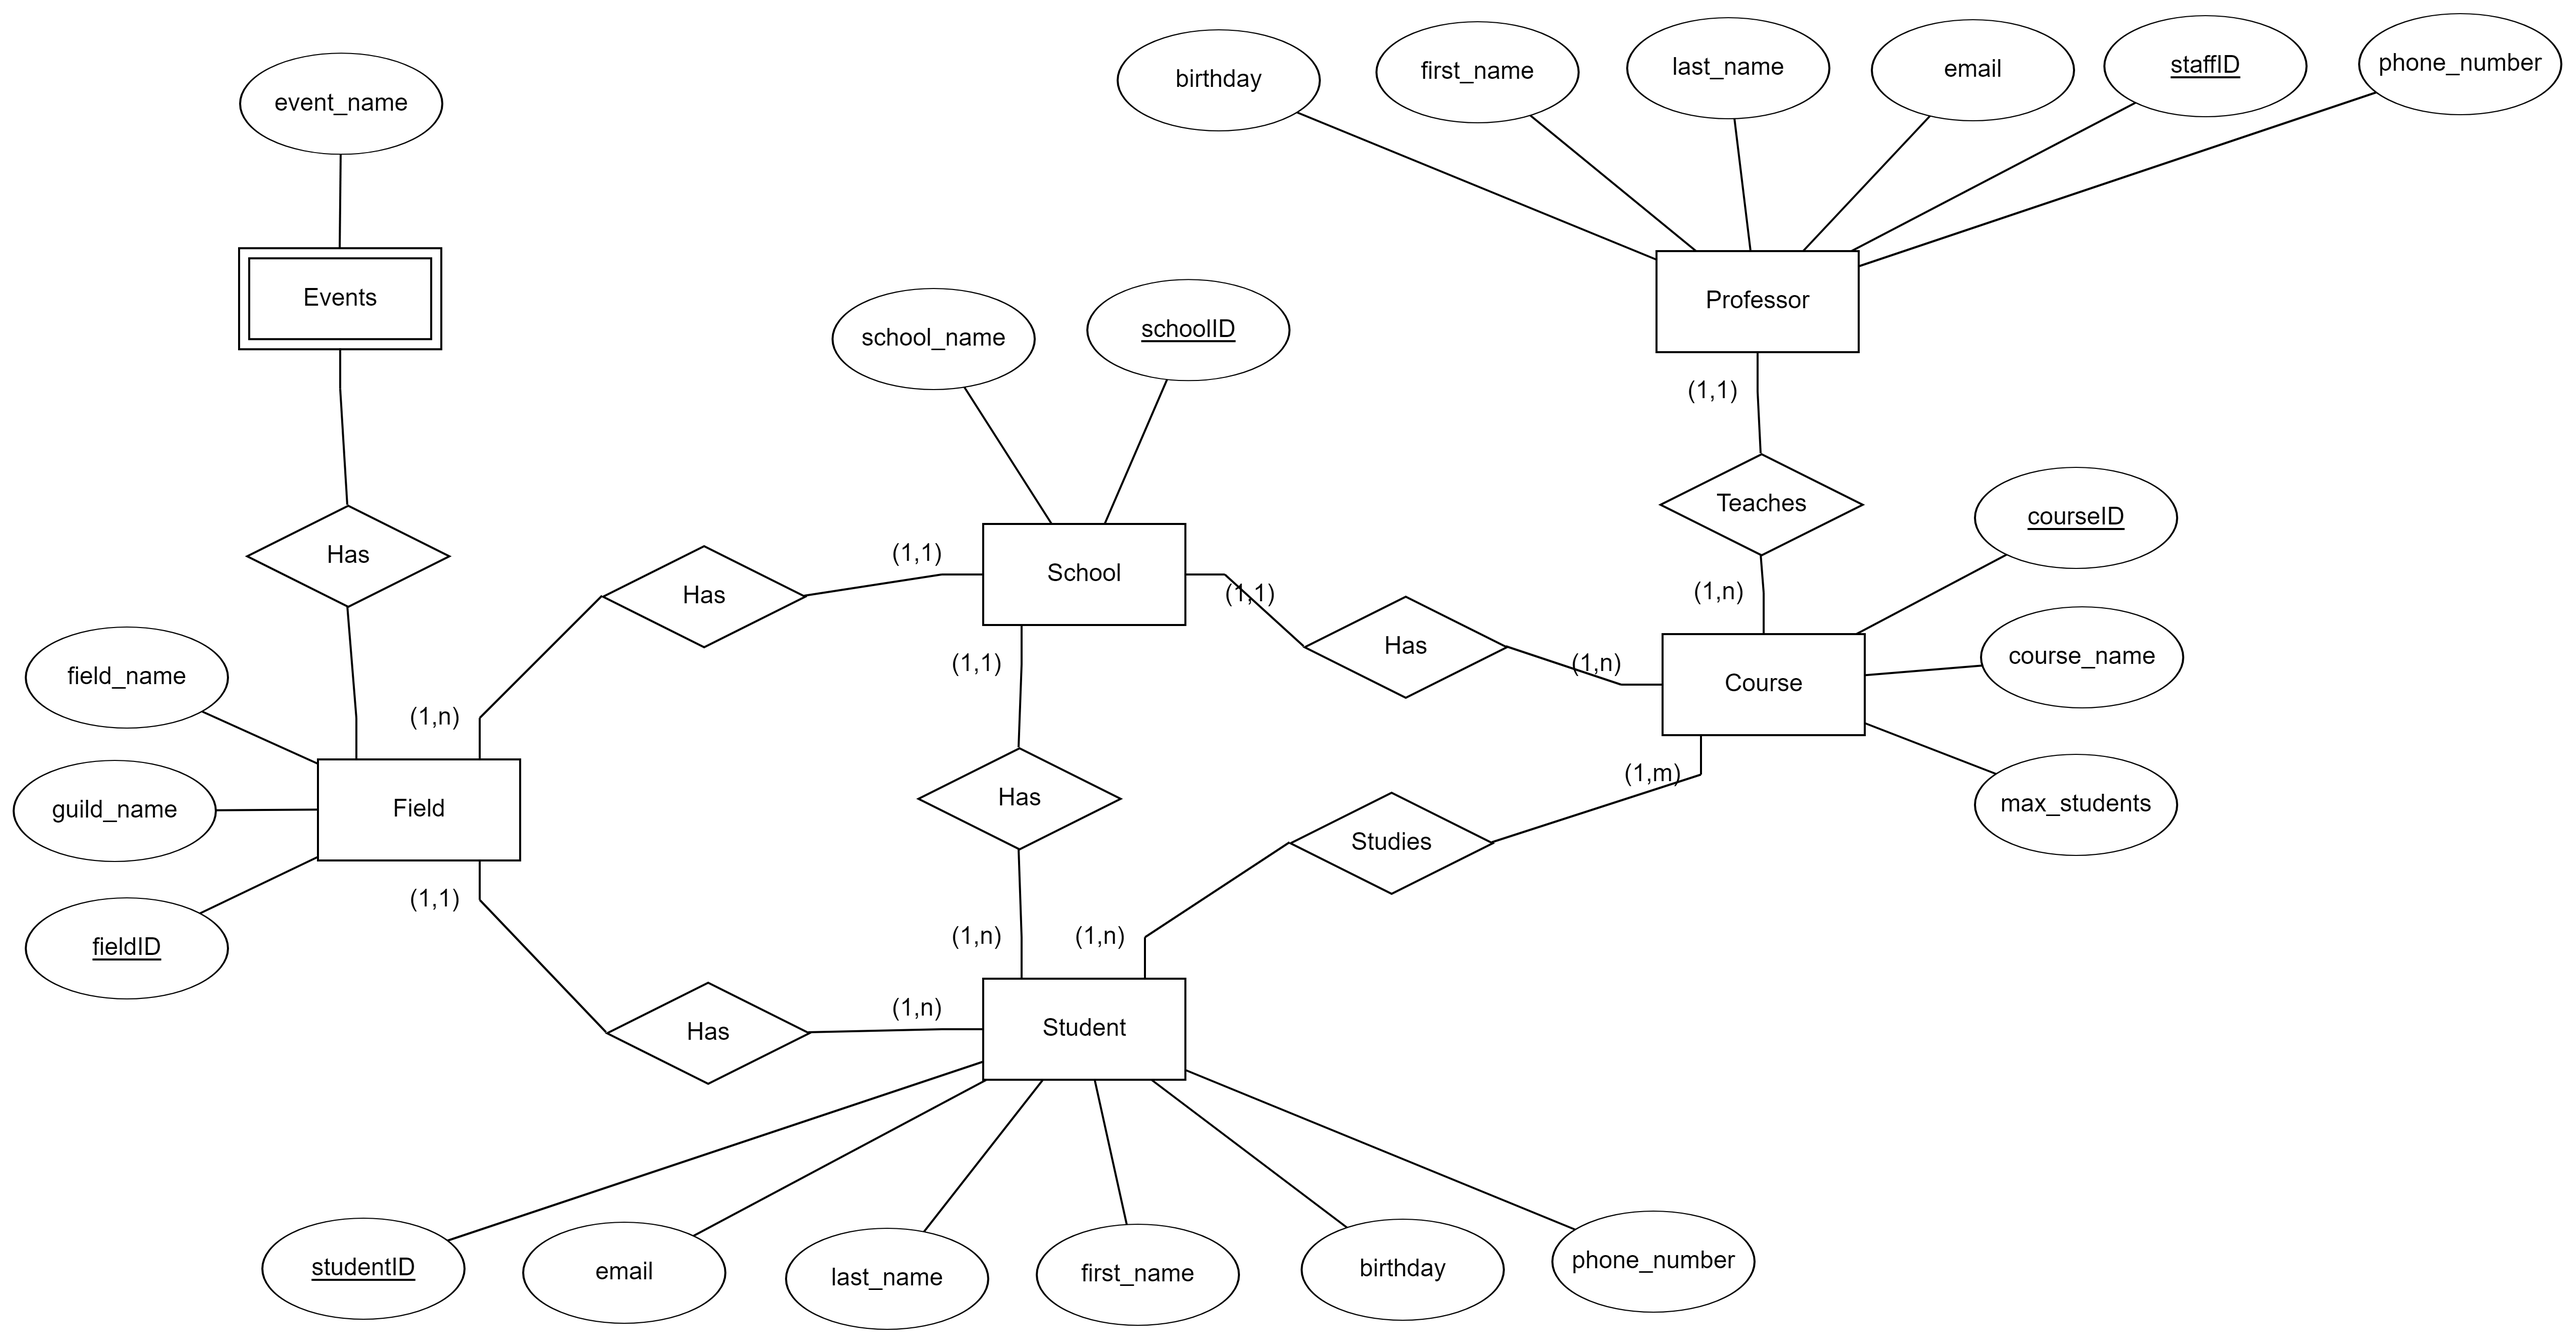
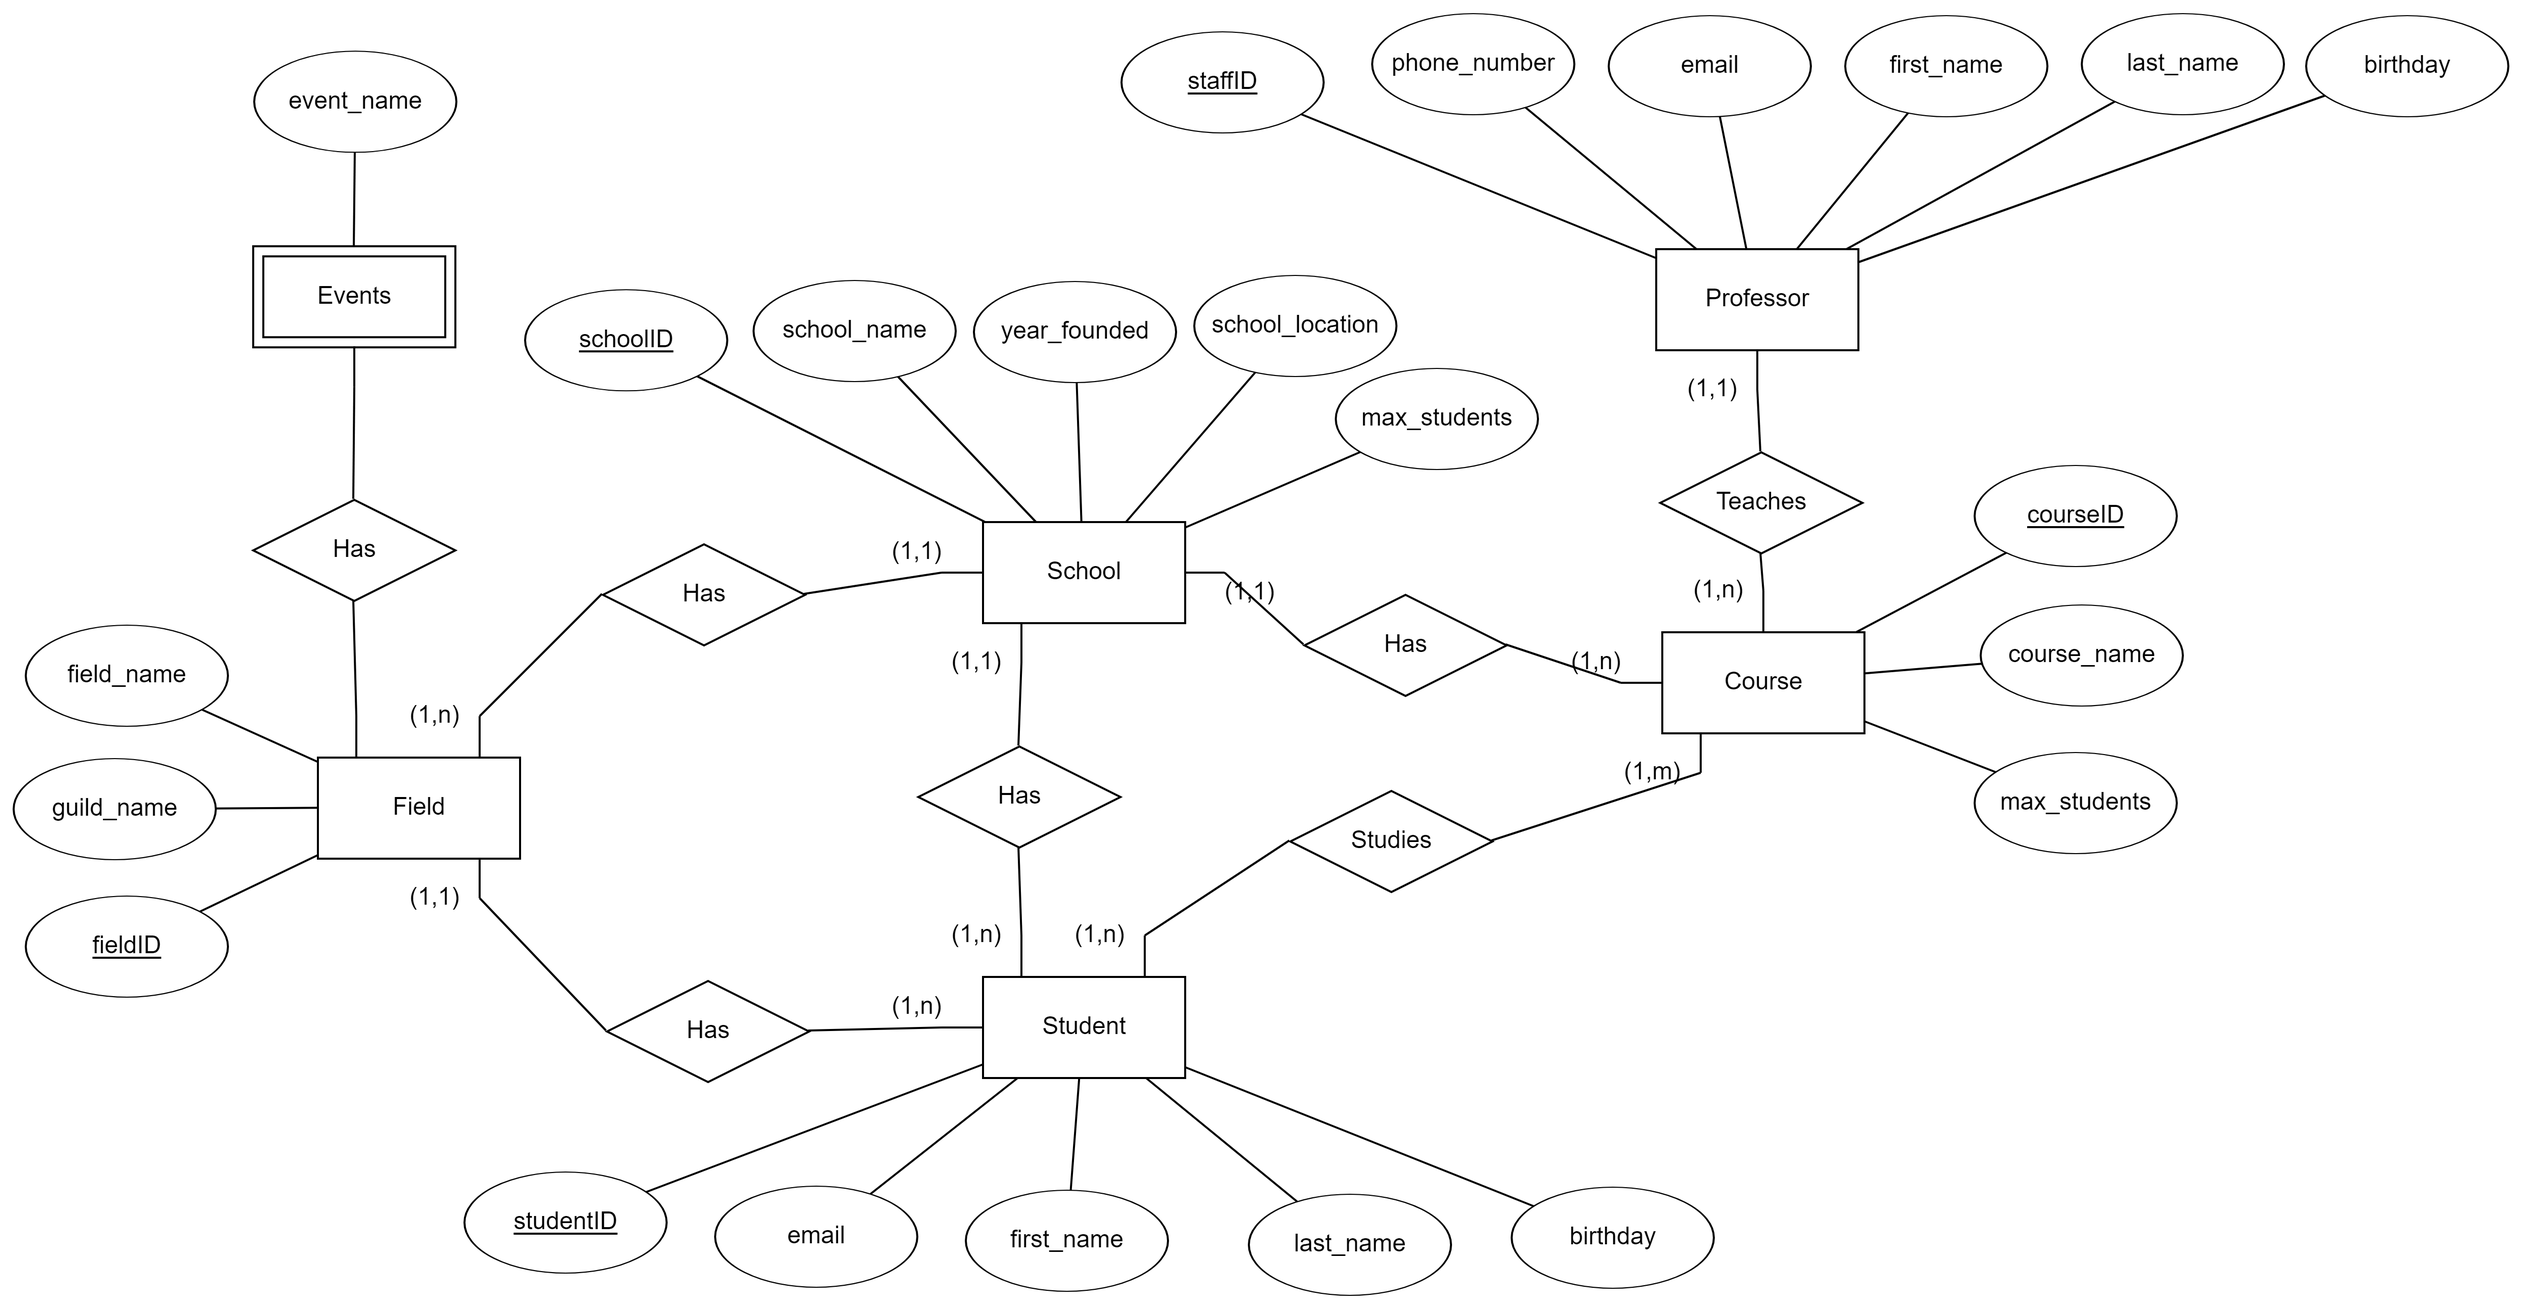
Updated ER diagram and modified python and added data to tables in init.sql

diff --git a/main.py b/main.py
@@ -1,35 +1,38 @@
 import sqlite3
 db = sqlite3.connect('students.db')
 cur = db.cursor()
+
+
 def initializeDB():
     try:
         f = open("sqlcommands.sql", "r")
         commandstring = ""
         for line in f.readlines():
-            commandstring+=line
+            commandstring += line
         cur.executescript(commandstring)
         f.close()
     except sqlite3.OperationalError:
         print("Database exists, skip initialization")
     except:
-        print("No SQL file to be used for initialization") 
-    
+        print("No SQL file to be used for initialization")
+
     try:
         f = open("init.sql", "r")
         initcommandstring = ""
         for line in f.readlines():
-            initcommandstring+=line
+            initcommandstring += line
         cur.executescript(initcommandstring)
     except sqlite3.Error as er:
         print(f"Error during additional initialization: {er.args}")
+
 
 def fieldStudents():
     cur.execute("SELECT * FROM Field;")
     SQLlist = cur.fetchall()
     for i in SQLlist:
         print(str(i[0]) + ", " + i[1] + ", " + i[2])
-    print( )
-    fieldID = input("Enter the ID of the field: ")
+    print()
+    fieldID = int(input("Enter the ID of the field: "))
     field_exists = False
     for field in SQLlist:
         if int(field[0]) == int(fieldID):
@@ -37,7 +40,8 @@ def fieldStudents():
             break
     if field_exists:
         SQLlist.clear()
-        cur.execute("SELECT * FROM Student WHERE Student.fieldID_FK=?;", (fieldID,))
+        cur.execute(
+            "SELECT * FROM Student WHERE Student.fieldID_FK=?;", (fieldID,))
         SQLlist = cur.fetchall()
         for i in SQLlist:
             print(str(i[2]) + ", " + i[3] + ", " + i[1] + ", " + i[4])
@@ -45,12 +49,13 @@ def fieldStudents():
         print("Field not found.")
     return
 
+
 def studentCourses():
     cur.execute("SELECT * FROM Student;")
     SQLlist = cur.fetchall()
     for i in SQLlist:
         print(str(i[0]) + ", " + i[2] + " " + i[3])
-    print( )
+    print()
     studentID = input("Enter the ID of the student: ")
     student_exists = False
     for student in SQLlist:
@@ -66,7 +71,7 @@ def studentCourses():
                         JOIN Course C ON CI.courseID_FK = C.courseID 
                         WHERE S.studentID=? """, (studentID,))
         SQLlist = cur.fetchall()
-        print( )
+        print()
         print(SQLlist[0][0]+":")
         for i in SQLlist:
             print(i[1])
@@ -74,12 +79,13 @@ def studentCourses():
         print("Student not found.")
     return
 
+
 def courseInformation():
     cur.execute("SELECT * FROM Course;")
     SQLlist = cur.fetchall()
     for i in SQLlist:
         print(str(i[0]) + ", " + i[1])
-    print( )
+    print()
     courseID = input("Enter the ID of the course: ")
     course_exists = False
     for course in SQLlist:
@@ -112,12 +118,13 @@ def courseInformation():
         print("Course not found.")
     return
 
+
 def professorCourses():
     cur.execute("SELECT * FROM Professor;")
     SQLlist = cur.fetchall()
     for i in SQLlist:
         print(str(i[0]) + ", " + i[3] + " " + i[4])
-    print( )
+    print()
     professorID = input("Enter the ID of the professor: ")
     professor_exists = False
     for professor in SQLlist:
@@ -133,13 +140,14 @@ def professorCourses():
                         JOIN Course C ON CI.courseID_FK = C.courseID 
                         WHERE P.staffID=?""", (professorID,))
         SQLlist = cur.fetchall()
-        print( )
+        print()
         print(SQLlist[0][0]+":")
         for i in SQLlist:
             print(i[1])
     else:
         print("Professor not found.")
     return
+
 
 def fieldEvents():
     cur.execute("SELECT * FROM Field;")
@@ -155,16 +163,17 @@ def fieldEvents():
             break
     if field_exists:
         SQLlist.clear()
-        cur.execute("""SELECT E.event_name AS 'Event',  
+        cur.execute("""SELECT E.event_name AS 'Event'  
                         FROM Events E
                         WHERE E.fieldID_FK=?""", (fieldID,))
         SQLlist = cur.fetchall()
-        print( )
+        print()
         for i in SQLlist:
-            print(i[1])
+            print(i[0])
     else:
         print("Field not found.")
     return
+
 
 def addCourse():
     course_name = input("Enter the course name: ")
@@ -178,7 +187,8 @@ def addCourse():
     professors = cur.fetchall()
     for professor in professors:
         print(professor[0] + ", " + professor[3] + " " + professor[4])
-    professorID = input("Enter the ID of the professor you want to assign to the course: ")
+    professorID = input(
+        "Enter the ID of the professor you want to assign to the course: ")
     professor_found = False
     for professor in professors:
         if int(professor[0]) == int(professorID):
@@ -188,19 +198,23 @@ def addCourse():
     students = cur.fetchall()
     for student in students:
         print(student[0] + ", " + student[2] + " " + student[3])
-    studentID = input("Enter the ID of the student you want to add to the course: ")
+    studentID = input(
+        "Enter the ID of the student you want to add to the course: ")
     student_found = False
     for student in students:
         if int(student[0]) == int(studentID):
             student_found = True
     if student_found and professor_found:
-        cur.execute("INSERT INTO Course (courseID, course_name) VALUES (?, ?);", (course_id, course_name,))
+        cur.execute("INSERT INTO Course (courseID, course_name) VALUES (?, ?);",
+                    (course_id, course_name,))
         print("Course " + course_name + " added.")
-        cur.execute("INSERT INTO CourseInformation (courseID_FK ,studentID_FK, staffID_FK) VALUES (?, ?, ?);", (course_id, studentID, professorID,))
+        cur.execute("INSERT INTO CourseInformation (courseID_FK ,studentID_FK, staffID_FK) VALUES (?, ?, ?);",
+                    (course_id, studentID, professorID,))
         print()
         print("Data inserted.")
     else:
         print("Student or professor not found. Course not added.")
+
 
 def modifyCourse():
     cur.execute("SELECT * FROM Course;")
@@ -216,10 +230,12 @@ def modifyCourse():
             break
     if course_exists:
         newName = input("Enter new name for course: ")
-        cur.execute("UPDATE Course SET course_name=? WHERE courseID=?", (newName, courseID,))
+        cur.execute(
+            "UPDATE Course SET course_name=? WHERE courseID=?", (newName, courseID,))
         print("Course modified.")
-    else: 
+    else:
         print("Course not found.")
+
 
 def deleteCourse():
     cur.execute("SELECT * FROM Course;")
@@ -239,10 +255,11 @@ def deleteCourse():
     else:
         print("Course not found.")
 
+
 def main():
     initializeDB()
     userInput = -1
-    while(userInput != "0"):
+    while (userInput != "0"):
         print("\nMenu options:")
         print("1: Print fields students")
         print("2: Print students courses")
@@ -257,23 +274,26 @@ def main():
         print(userInput)
         if userInput == "1":
             fieldStudents()
-        if userInput == "2":
+        elif userInput == "2":
             studentCourses()
-        if userInput == "3":
+        elif userInput == "3":
             courseInformation()
-        if userInput == "4":
+        elif userInput == "4":
             professorCourses()
-        if userInput == "5":
+        elif userInput == "5":
             fieldEvents()
-        if userInput == "6":
+        elif userInput == "6":
             addCourse()
-        if userInput == "7":
+        elif userInput == "7":
             modifyCourse()
-        if userInput == "8":
+        elif userInput == "8":
             deleteCourse()
-        if userInput == "0":
+        elif userInput == "0":
             print("Ending software...")
-    db.close()        
+        else:
+            print("Unkown command, try again.")
+    db.close()
     return
+
 
 main()
